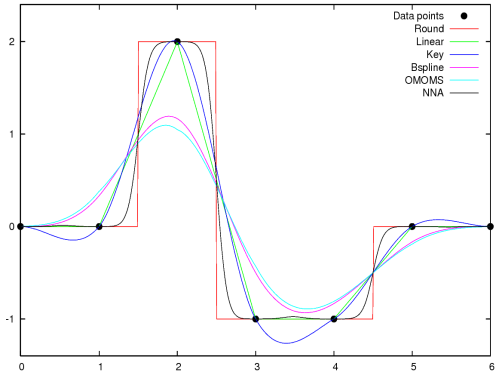
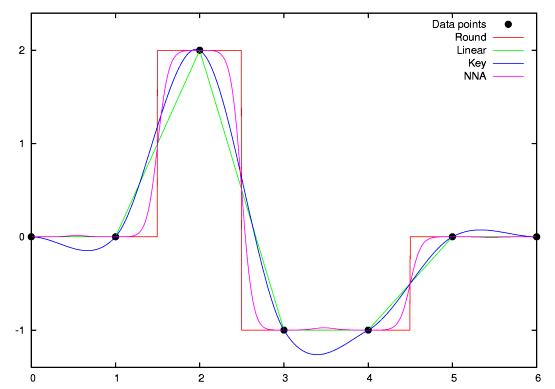
- described interpolations properly - marked Bspline and Omoms as deprecated and removed them from interpolation   demo image
git-svn-id: svn://svn.code.sf.net/p/gwyddion/code@6970 25697fe4-d644-49b8-9d30-be5465f2adf3

Changed region(s): [[0.0, 0.0, 0.998, 0.9973]]

diff --git a/trunk/user-guide/formulas/eq-interpolation-key.tex b/trunk/user-guide/formulas/eq-interpolation-key.tex
@@ -1,0 +1,7 @@
+\def\Q{\vphantom{(^)_y}}
+\vcenter{\normalbaselines\ialign{\hfil$#=\Q$&$#\Q$\hfil\cr
+  w_{-1}&\bigl(-{1\over2} + (1 - {x\over2})x\bigr)x\cr
+  w_0&1 + (-{5\over2} + {2\over2}x)x^2\cr
+  w_1&\bigl({1\over2} + (2 - {3\over2}x)x\bigr)x\cr
+  w_2&(-{1\over2} + {x\over2})x^2\cr
+}}

diff --git a/trunk/user-guide/formulas/eq-interpolation-nna.tex b/trunk/user-guide/formulas/eq-interpolation-nna.tex
@@ -1,0 +1,2 @@
+w_k = {{\displaystyle{1\over r_k^4}}
+       \over\sum\limits_{j=-1}^2 {\displaystyle{1\over r_j^4}}}\;,\quad

diff --git a/trunk/user-guide/formulas/eq-interpolation-w1234.tex b/trunk/user-guide/formulas/eq-interpolation-w1234.tex
@@ -1,0 +1,1 @@
+z = w_{-1}z_{-1} + w_0z_0 + w_1z_1 + w_2z_2

diff --git a/trunk/user-guide/formulas/eq-interpolation-linear.tex b/trunk/user-guide/formulas/eq-interpolation-linear.tex
@@ -1,0 +1,1 @@
+z = (1-x)z_0 + xz_1
